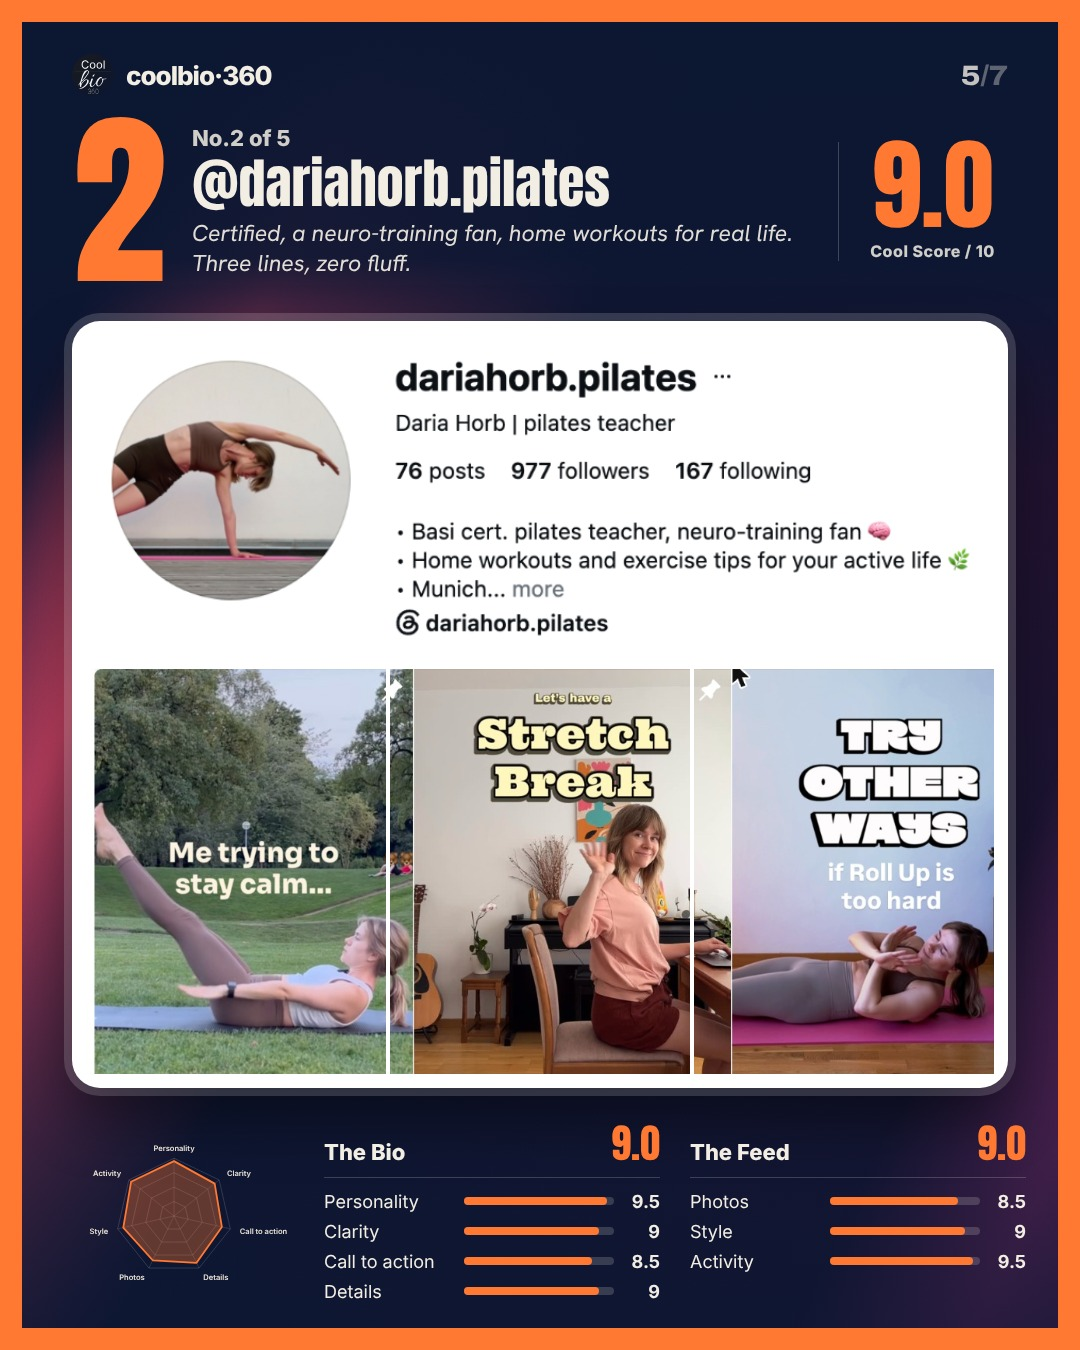
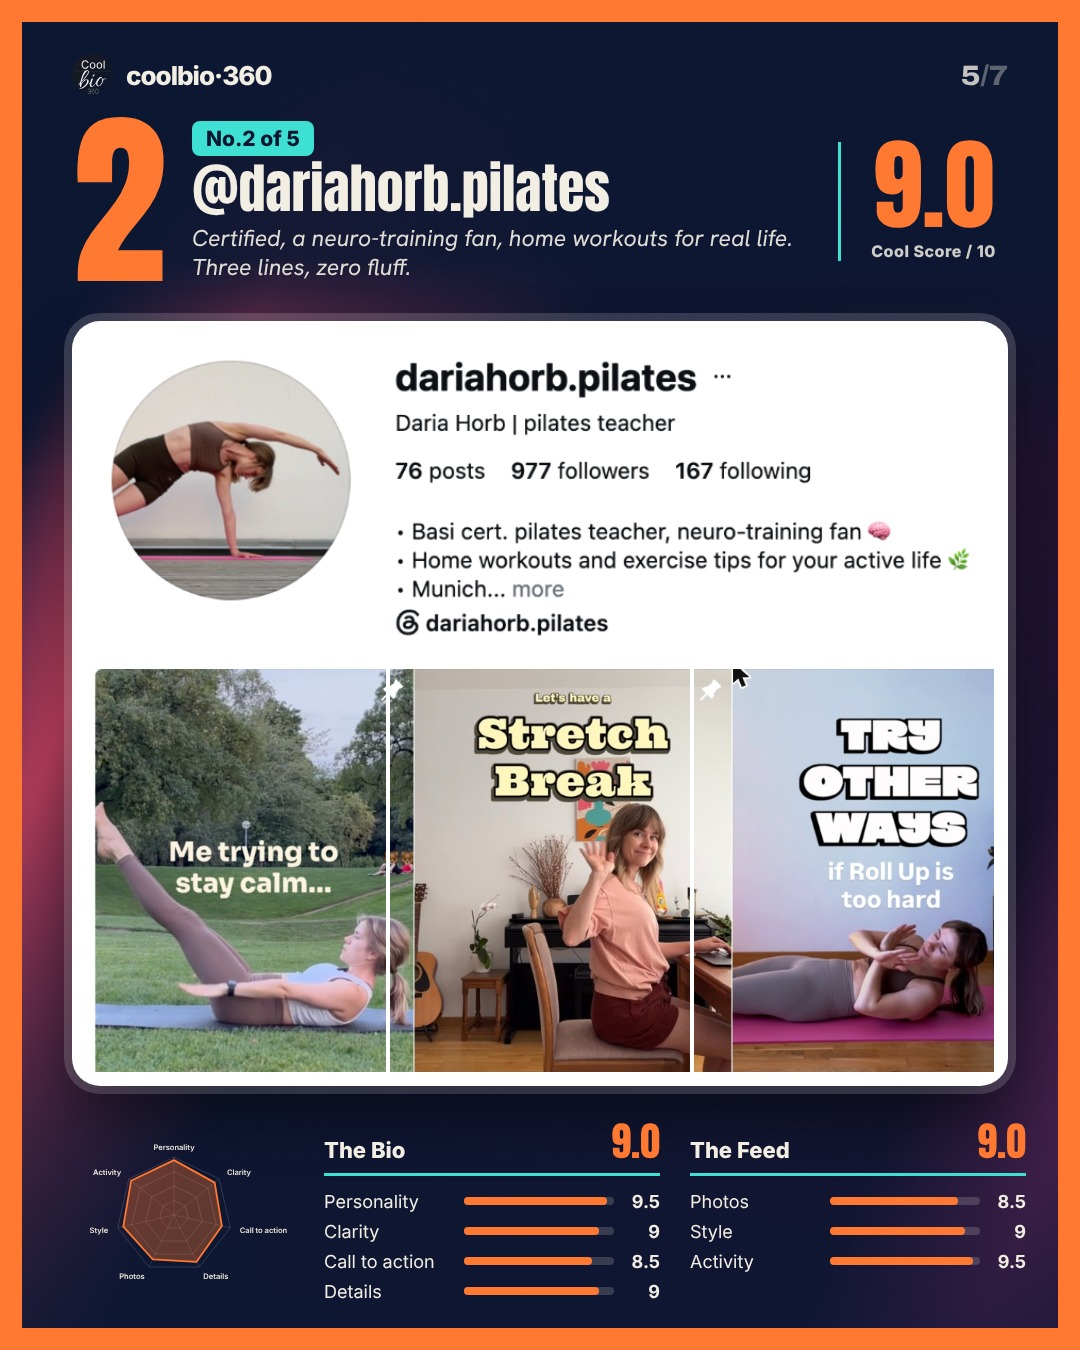
Classifiche: sfondo a fasci, accento acqua su categoria e vincitore, pulsante swipe
Claude-Session: https://claude.ai/code/session_01JL8RT6ZiLuziuRoxLPPpLq

diff --git a/tools/v2/gen_top8.py b/tools/v2/gen_top8.py
@@ -15,22 +15,28 @@ def page(b,acc):
     i=h.rfind('</div></body>'); return h[:i]+frame+h[i:]
 CARD=lambda: 'background:#fff;border-radius:30px;padding:14px;box-shadow:0 0 0 8px rgba(255,255,255,.18),0 30px 60px rgba(0,0,0,.45)'
 GLASS='background:rgba(255,255,255,.08);border:1.5px solid rgba(255,255,255,.22);border-radius:30px;backdrop-filter:blur(14px)'
+XC={'x':'#3DE0D2'}
+def under(word,col):
+    return f'<span style="position:relative;display:inline-block">{word}<svg viewBox="0 0 300 40" preserveAspectRatio="none" style="position:absolute;left:-2%;bottom:-0.06em;width:104%;height:0.24em;overflow:visible"><path d="M6 24 C 50 14, 110 20, 160 17 S 250 12, 294 19" fill="none" stroke="{col}" stroke-width="16" stroke-linecap="round"/><path d="M22 30 C 90 22, 170 27, 284 23" fill="none" stroke="{col}" stroke-width="8" stroke-linecap="round" opacity=".9"/></svg></span>'
 def cover(d):
     A,A2=d['accent'],d['A2']; P={p['rank']:p for p in d['people']}
     def pod(r,x,y,sz):
         return f'''<div class="z" style="position:absolute;left:{x}px;top:{y}px;width:{sz}px;text-align:center">
-<div style="width:{sz}px;height:{sz}px;border-radius:50%;background:url({T.avatar(P[r]['h'])}) center/cover;box-shadow:0 0 0 7px {d['strong'] if r==1 else 'rgba(243,238,228,.35)'},0 30px 60px rgba(0,0,0,.5)"></div>
-<div style="margin-top:22px;display:flex;justify-content:center;align-items:baseline;gap:14px">{N(r,int(sz*.5),d['strong'] if r==1 else CREAM)}<span style="font-family:Anton;font-size:{int(sz*.2)}px;color:{CREAM};opacity:.85">{P[r]['score']}</span></div></div>'''
+<div style="width:{sz}px;height:{sz}px;border-radius:50%;background:url({T.avatar(P[r]['h'])}) center/cover;box-shadow:0 0 0 7px {d['x'] if r==1 else 'rgba(243,238,228,.35)'},0 30px 60px rgba(0,0,0,.5)"></div>{('<div style="position:absolute;left:50%;top:-30px;transform:translateX(-50%) rotate(-4deg);background:'+d['x']+';color:#0B1631;font-family:Anton;font-size:30px;padding:6px 18px;border-radius:10px;white-space:nowrap">THE WINNER</div>') if r==1 else ''}
+<div style="margin-top:22px;display:flex;justify-content:center;align-items:baseline;gap:14px">{N(r,int(sz*.5),d['x'] if r==1 else CREAM)}<span style="font-family:Anton;font-size:{int(sz*.2)}px;color:{CREAM};opacity:.85">{P[r]['score']}</span></div></div>'''
     b=f'''{grain()}{header(1,7,CREAM)}
 <div class="z" style="position:absolute;left:{M}px;right:{M}px;top:150px;color:{CREAM}">
 <div class="sub" style="font-size:30px;color:{CREAM}">The bio issue, vol. {d['vol']}</div>
-<div style="font-family:Anton;font-size:156px;line-height:.9;text-transform:uppercase;margin-top:10px">The 5 best<br><span style="color:{d['strong']}">{E(d['word'])} bios</span></div>
+<div style="font-family:Anton;font-size:156px;line-height:.9;text-transform:uppercase;margin-top:10px">The 5 best<br><span style="color:{d['strong']}">{under(E(d['word']),d['x'])} bios</span></div>
 <div class="sub" style="font-size:32px;margin-top:18px;opacity:.9">{E(d['sub'])}</div></div>
-{pod(2,M+10,790,250)}{pod(3,W-M-260,830,250)}{pod(1,(W-320)//2,720,320)}'''
+{pod(2,M+10,720,250)}{pod(3,W-M-260,760,250)}{pod(1,(W-320)//2,650,320)}
+<div class="z" style="position:absolute;left:50%;bottom:64px;transform:translateX(-50%);display:flex;align-items:center;gap:16px;background:{d['x']};color:{NAVY};border-radius:999px;padding:16px 22px 16px 34px;box-shadow:0 16px 40px rgba(0,0,0,.4);white-space:nowrap">
+<span style="font-family:Anton;font-size:34px;letter-spacing:.5px">SWIPE TO SEE WHO WON</span>
+<span style="width:52px;height:52px;border-radius:50%;background:{NAVY};display:flex;align-items:center;justify-content:center"><svg width="26" height="26" viewBox="0 0 24 24"><path d="M5 12h13M13 6l6 6-6 6" fill="none" stroke="{d['x']}" stroke-width="3" stroke-linecap="round" stroke-linejoin="round"/></svg></span></div>'''
     return page(b,d['strong'])
 def statcol(name,vs,ls,S):
     rows=''.join(f'''<div style="display:grid;grid-template-columns:128px 150px 34px;gap:12px;align-items:center;height:30px;font-size:18px;color:{CREAM}"><span>{l}</span><div style="height:8px;border-radius:4px;background:rgba(243,238,228,.18)"><div style="width:{x*10}%;height:8px;border-radius:4px;background:{S}"></div></div><span style="font-weight:700;text-align:right">{x:g}</span></div>''' for l,x in zip(ls,vs))
-    return f'''<div><div style="display:flex;justify-content:space-between;align-items:baseline;height:52px;border-bottom:1px solid rgba(243,238,228,.2);margin-bottom:8px"><span style="font-size:22px;font-weight:800;color:{CREAM}">{name}</span>{N(f"{sum(vs)/len(vs):.1f}",40,S)}</div>{rows}</div>'''
+    return f'''<div><div style="display:flex;justify-content:space-between;align-items:baseline;height:52px;border-bottom:3px solid {XC['x']};margin-bottom:10px"><span style="font-size:22px;font-weight:800;color:{CREAM}">{name}</span>{N(f"{sum(vs)/len(vs):.1f}",40,S)}</div>{rows}</div>'''
 def profile(d,p,i):
     A,S=d['accent'],d['strong']; vals=p['bio']+p['feed']; win=p['rank']==1
     tiles=''.join(f'<div style="flex:1;height:100%;background:url({T.b64(T.CAP+p["h"]+f"_{k}.jpg")}) center/cover"></div>' for k in (1,2,3))
@@ -38,11 +44,11 @@ def profile(d,p,i):
 {grain()}{header(i,7,CREAM)}
 <div class="z" style="position:absolute;left:{M}px;right:{M}px;top:120px;bottom:44px;display:flex;flex-direction:column;gap:38px">
 <div style="display:flex;align-items:center;gap:26px;color:{CREAM}">
-{N(p['rank'],190,S)}
-<div style="flex:1;min-width:0"><div style="font-size:22px;font-weight:800;color:{CREAM};opacity:.85">{'THE WINNER 🏆' if win else 'No.'+str(p['rank'])+' of 5'}</div>
+{N(p['rank'],190,d['x'] if win else S)}
+<div style="flex:1;min-width:0"><div style="display:inline-block;font-size:21px;font-weight:800;color:{NAVY};background:{d['x']};padding:5px 14px;border-radius:8px">{'THE WINNER 🏆' if win else 'No.'+str(p['rank'])+' of 5'}</div>
 <div style="font-family:Anton;font-size:54px;line-height:1.04;margin-top:4px;word-break:break-all">@{E(p['h'])}</div>
 <div class="sub" style="font-size:23px;line-height:1.28;margin-top:8px;opacity:.92">{E(p['v'])}</div></div>
-<div style="flex:none;width:170px;text-align:center;border-left:1px solid rgba(243,238,228,.22);padding-left:18px">{N(p['score'],100,S)}<div style="font-size:16px;font-weight:800;letter-spacing:.5px;margin-top:10px;opacity:.85">Cool Score / 10</div></div></div>
+<div style="flex:none;width:170px;text-align:center;border-left:3px solid {d['x']};padding-left:18px">{N(p['score'],100,S)}<div style="font-size:16px;font-weight:800;letter-spacing:.5px;margin-top:10px;opacity:.85">Cool Score / 10</div></div></div>
 <div style="flex:1;min-height:0;display:flex;flex-direction:column;background:#fff;border-radius:28px;padding:14px;box-shadow:0 0 0 8px rgba(255,255,255,.16),0 30px 60px rgba(0,0,0,.45)">
 <img src="{T.b64(T.CAP+p['h']+'_head.png')}" style="width:100%;display:block;flex:none">
 <div style="flex:1;min-height:0;display:flex;gap:4px;margin-top:10px">{tiles}</div></div>
@@ -56,7 +62,7 @@ def steal(d):
 <div class="z" style="position:absolute;left:{M}px;right:{M}px;top:130px;bottom:40px;display:flex;flex-direction:column;justify-content:space-between">
 <div style="background:#FFFDF6;border-radius:40px;padding:34px 44px 40px;box-shadow:0 30px 70px rgba(0,0,0,.3);font-family:Inter">
 <div style="display:flex;justify-content:space-between;font-size:28px;color:#E0A800;font-weight:500"><span>‹ Notes</span><span style="font-weight:700">Done</span></div>
-<div style="font-family:Anton;font-size:64px;color:#1c1c1e;margin-top:12px;line-height:1">STEAL THIS BIO</div>
+<div style="font-family:Anton;font-size:64px;color:#1c1c1e;margin-top:12px;line-height:1">{under('STEAL',d['x'])} THIS BIO</div>
 <div class="sub" style="font-size:26px;color:#6b6458;margin-top:8px">Built from what our top 5 have in common</div>
 <div style="margin-top:6px">{rows}</div>
 <div style="margin-top:20px;background:#fff;border:2px solid #ECE6D6;border-radius:24px;padding:18px 24px">
@@ -103,7 +109,7 @@ async def main(path):
     d=json.load(open(path)); os.makedirs(OUT,exist_ok=True); P={p['rank']:p for p in d['people']}
     A=d['accent']; d['A2']=T.mix(A,'#5A1E10',.5)
     import colorsys; r,g,b_=[int(A[k:k+2],16)/255 for k in (1,3,5)]; hh,ll,ss=colorsys.rgb_to_hls(r,g,b_); rr,gg,bb=colorsys.hls_to_rgb(hh,.6,1.0); d['strong']='#%02x%02x%02x'%(int(rr*255),int(gg*255),int(bb*255))
-    d['hues']=[A,'#FF4D6D','#FFB45E','#9B2C6E']     # analoghi caldi: accento, corallo, ambra, prugna
+    d['hues']=[A,'#FF4D6D','#FFB45E','#9B2C6E']; d['x']=d.get('x2','#3DE0D2'); XC['x']=d['x']     # analoghi caldi: accento, corallo, ambra, prugna
     tones=['d']*7
     from playwright.async_api import async_playwright
     async with async_playwright() as pw:
